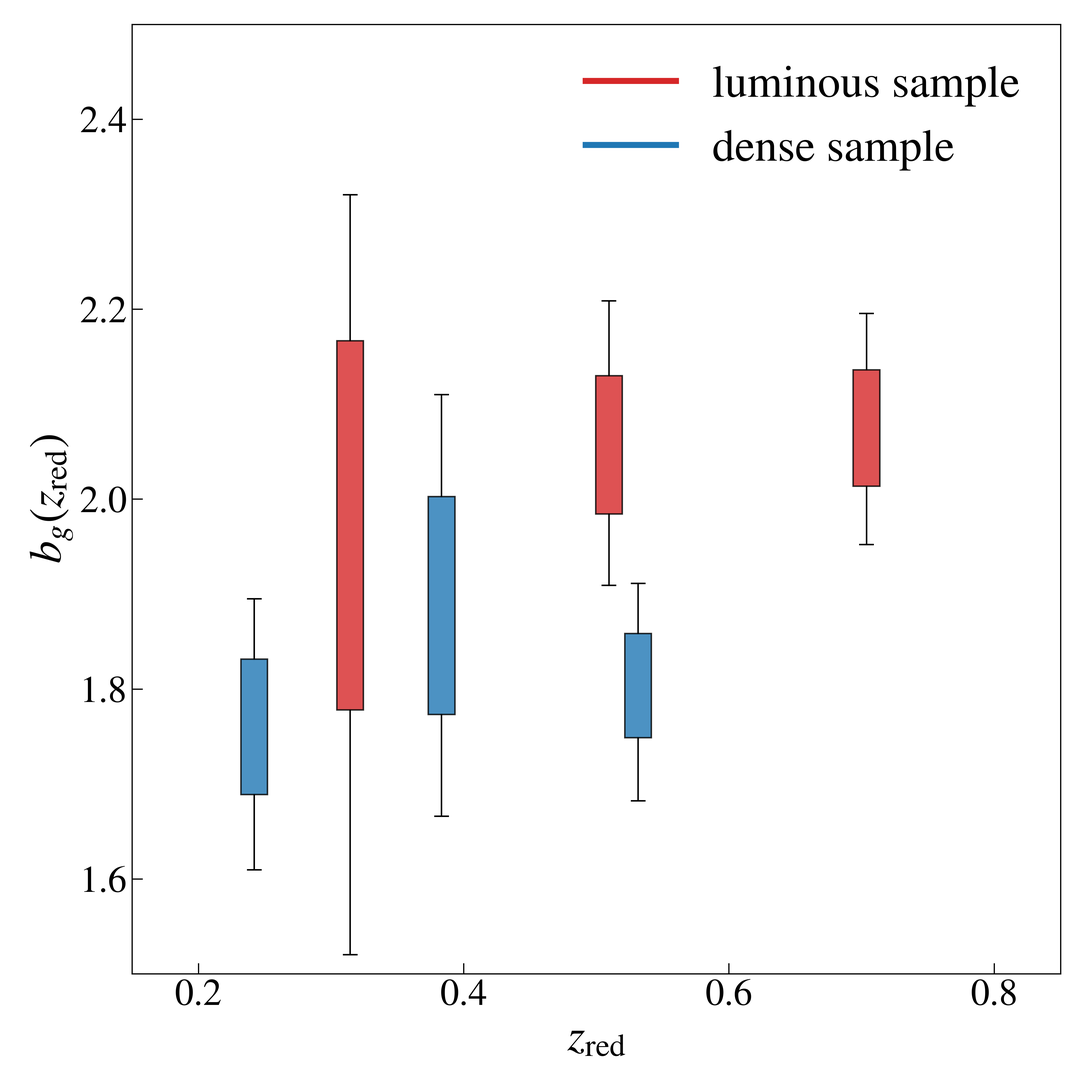
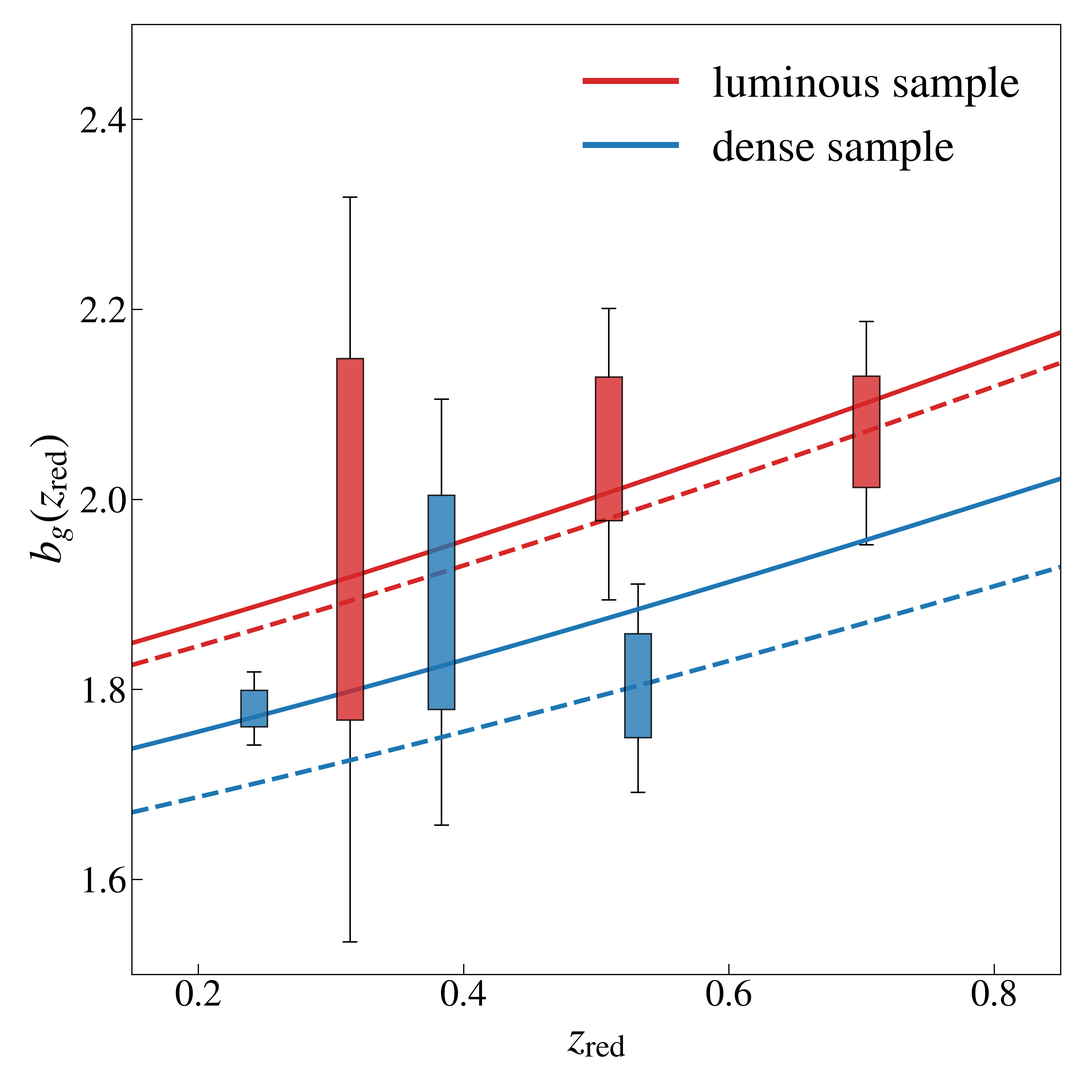
passive evolution

diff --git a/lrg_kids.tex b/lrg_kids.tex
@@ -77,6 +77,10 @@
 \newcommand{\mjv}{\textcolor{cyan}}
 \newcommand{\edit}{\textcolor{red}}
 \newcommand{\Referee}{\textcolor{red}}
+
+\newcommand{\mb}{\textcolor{brown}}
+
+
 %%%%%%%%%%%%%%%%%%%%%%%%%%%%%%%%%%%%%%%%%%%%%%%%%%
 
 \newcommand{\be}{\begin{equation}}
@@ -138,7 +142,10 @@ Mohammadjavad Vakili\inst{1}\thanks{\emph{E-mail:} vakili@strw.leidenuniv.nl} et
 %\maketitle
 
 % Abstract of the paper
-\abstract{We present a sample of luminous red-sequence galaxies to study the large-scale structure in the fourth data release of the Kilo Degree Survey. The selected galaxies are defined by a red-sequence template, a data-driven model of the color-magnitude relation conditioned on redshift. In this work, the red-sequence template is built using the broad-band optical+near infrared photometry of KiDS-VIKIING and the overlapping spectroscopic data sets. The selection process involves estimating the red-sequence redshifts, assessment of the purity of the sample, and estimating the redshift distributions. Then we mitigate the impact of survey properties on the observed number density of galaxies by assigning photometric weights to the galaxies. We measure the angular two-point correlation function of these galaxies in four redshift bins. After blinding the inverse covariance matrices of the correlation functions, we constrain the large-scale bias of our red-sequence sample. We find consistent linear biases with each luminosity-threshold sample. We finally compare our findings with the expectations of the passive evolution model.}
+\abstract{We present a sample of luminous red-sequence galaxies to study the large-scale structure in the fourth data release of the Kilo Degree Survey. The selected galaxies are defined by a red-sequence template, a data-driven model of the color-magnitude relation conditioned on redshift. In this work, the red-sequence template is built using the broad-band optical+near infrared photometry of KiDS-VIKING and the overlapping spectroscopic data sets \mb{[maybe say which ones?]}. The selection process involves estimating the red-sequence redshifts, assessment of the purity of the sample, and estimating the \mb{true} redshift distributions. %Then
+\mb{After performing the selection,} we mitigate the impact of survey properties on the observed number density of galaxies by assigning photometric weights to the galaxies. We measure the angular two-point correlation function of %these 
+\mb{the red} galaxies in four redshift bins. After blinding the inverse covariance matrices of the correlation functions, we constrain the large-scale bias of our red-sequence sample. We find consistent linear biases %with each 
+\mb{for two} luminosity-threshold sample\mb{s defined (`dense' and `luminous')}. We finally compare our findings with the expectations of the passive evolution model.}
 
 % Select between one and six entries from the list of approved keywords.
 % Don't make up new ones.
@@ -153,18 +160,18 @@ Mohammadjavad Vakili\inst{1}\thanks{\emph{E-mail:} vakili@strw.leidenuniv.nl} et
 
 \section{Introduction}
 
-The Kilo Degree Survey (KiDS) is an optical galaxy survey primarily designed to map the large-scale structure by studying the weak gravitational lensing of galaxies (\citealt{kuijken2015, hendrick2017, kuijken2019, hendrik2020}). This is done by measuring the distortion of the shapes of distant galaxies known as the cosmic shear. The correlation between the cosmic shear estimates across the sky is then compared to the predictions of simulations to test cosmological models. Cosmic shear analysis is the cornerstone of modern cosmological imaging surveys (\citealt{heymans2013,jee2016,hendrick2017,joudaki2017,troxel2017,joudaki2019, hikage2019}). 
+The Kilo Degree Survey (KiDS) is an optical galaxy survey primarily designed to map the large-scale structure by studying the weak gravitational lensing of galaxies (\citealt{kuijken2015, hendrick2017, kuijken2019, hendrik2020}) \mb{[Kuijken'19 probably not here. Also, maybe add Giblin'20 and Asgari'20 in prep?]}. This is done by measuring the distortion of the shapes of distant galaxies known as the cosmic shear. The correlation between the cosmic shear estimates across the sky is then compared to the predictions of simulations\mb{[rather: theoretical predictions?]} to test cosmological models. Cosmic shear analysis is the cornerstone of modern cosmological imaging surveys (\citealt{heymans2013,jee2016,hendrick2017,joudaki2017,troxel2017,joudaki2019, hikage2019}). 
 
-However, the full constraining potential of weak lensing studies can only be realized through the joint analysis of the cosmic shear of background galaxies and the positions of foreground galaxies with robust distance estimates. This involves measuring the correlation between the cosmic shear estimates of the background galaxies, the correlation between the positions of foreground galaxies as well as the cross-correlation between the cosmic shear of background galaxies and the positions of foreground galaxies (\citealt{cacciato2013, cosmolike, des_y1_cosmology, elvin2017, edo2018, prat2017}). 
+However, the full constraining potential of weak lensing studies can only be realized through the joint analysis of the cosmic shear of background galaxies and the positions of foreground galaxies with robust distance estimates. This involves measuring the correlation between the cosmic shear estimates of the background galaxies, the correlation between the positions of foreground galaxies as well as the cross-correlation between the cosmic shear of background galaxies and the positions of foreground galaxies\mb{, known as `galaxy-galaxy lensing'} (\citealt{cacciato2013, cosmolike, des_y1_cosmology, elvin2017, edo2018, prat2017}). 
 The advantages of such combined analyses are two-fold: obtaining tighter constraints on cosmological parameters and the extensions to the standard model of cosmology, and offering a venue for mitigation of a range of observational and theoretical systematics such as photometric redshift uncertainties and intrinsic alignments (\citealt{edo2016, joudaki2018, sam2019}). 
 
 In this work, we focus on selecting a sample of galaxies with robust redshift estimates as well as measuring their angular two-point correlation function in slices of redshift. Following the work of \citet{vakili2019} we construct a sample of red-sequence galaxies by leveraging the fact that the distribution of these galaxies in colour space follows a multivariate Gaussian distribution. The mean of this distribution is a linear function of magnitude. Furthermore, the coefficients of this linear relation as well as the covariance of the Gaussian distribution are determined by the redshift \citep[e.g.][]{bower1992,ellis1997,gladders1998,stanford1998}. 
 
-We can then leverage this empirical distribution to select red-sequence galaxies with the broad-band photometry of the imaging surveys (\citealt{gladders_yee2000,hao2009,redmap_sdss,rozo2016,elvin2017,oguri2018,vakili2019}). In this work, we build this data-driven model with the multi-band photometry of the KiDS DR4 (\citealt{kuijken2019}) and its overlap with the following spectroscopic data sets: SDSS DR13 (\citealt{sdss_dr13}), GAMA (\citealt{driver2011}), 2dFLenS (\citealt{blake2016}), and the GAMA reanalysis of the redshifts in COSMOS region (hereafter G10-COSMOS \citealt{davis2015}). 
+We can then leverage this empirical distribution to select red-sequence galaxies with the broad-band photometry of imaging surveys (\citealt{gladders_yee2000,hao2009,redmap_sdss,rozo2016,elvin2017,oguri2018,vakili2019}). In this work, we build this data-driven model with the multi-band photometry of the KiDS \mb{Data Release 4 (DR4,} \citealt{kuijken2019}) and its overlap with the following spectroscopic data sets: SDSS DR13 (\citealt{sdss_dr13}), GAMA (\citealt{driver2011}), 2dFLenS (\citealt{blake2016}), and the GAMA reanalysis of the redshifts in the COSMOS region (hereafter G10-COSMOS, \citealt{davis2015}). 
 
 %A major modification with respect to the red-sequence model of \citet{vakili2019} is the addition of the VIKING $Z$ filter to the KiDS OmegaCAM $ugri$ optical filters.  
 
-Following the $\textsc{redMagiC}$ prescription (\citealt{rozo2016}), we impose a set of luminosity cuts and constant comoving densities, and we construct two samples of red-sequence galaxies with nearly constant comoving density suitable for galaxy clustering and galaxy-galaxy lensing studies. We call these the dense (high density, low brightness) and the luminous (low density, high brightness) samples. The main differences between the red-sequence selection in this work and the previous work of \citet{vakili2019} are: the inclusion of the VIKING $Z$-band magnitudes in the red-sequence template, and the inclusion of the G10-COSMOS in spectroscopic calibration of the model. %We also use the VIKING $K_{\rm s}$ band to assess the purity of the sample selected based on the red-sequence template.  
+Following the $\textsc{redMagiC}$ prescription (\citealt{rozo2016}), we impose a set of luminosity cuts and constant comoving densities, and we construct two samples of red-sequence galaxies with nearly constant comoving density suitable for galaxy clustering and galaxy-galaxy lensing studies. We call these the dense (high density, low brightness) and the luminous (low density, high brightness) samples. The main differences between the red-sequence selection in this work and the previous work of \citet{vakili2019} are: the inclusion of the VIKING $Z$-band magnitudes in the red-sequence template, and the inclusion of the G10-COSMOS in spectroscopic calibration of the model. \mb{[say maybe how these help? %We also use the VIKING $K_{\rm s}$ band to assess the purity of the sample selected based on the red-sequence template.  
 
 Furthermore, we utilize the VIKING $K_{\rm s}$-band magnitudes to investigate the purity of the selected objects within each luminosity threshold sample. We then remove the outliers to maximize the purity of the catalog. Given the purity of the samples and the variable depth of the survey, we choose the redshift reaches of the luminosity threshold samples. The redshift reach of each sample is chosen such that the sample remains pure while nearly volume-limited (constant comoving density) below that redshift. Afterwards, we divide the galaxy sample into four redshift bins between 0.15 and 0.8, with the first three redshift bins comprising the galaxies in the dense sample and the last bin consisting of the galaxies in the luminous sample. 
 
@@ -394,7 +401,7 @@ Evidently, the estimated purity of galaxies in the dense sample drops significan
 
 \begin{table*}
 	\centering
-	\caption{{\bf Photo-z bias divided into four redshift bins and four spec-z data} In each redshift bin, we compare the photo-z biases, mean and standard deviation, with respect to the four spectroscopic surveys. The number of spectroscopic redshifts are shown in parenthesis.}
+	\caption{{\bf Photo-z bias divided into four redshift bins and four spec-z data} In each redshift bin, we compare the photo-z biases, summarized with mean and standard deviation, with respect to the four spectroscopic surveys. The number of spectroscopic redshifts available in each redshift bin and spectroscopic data set is shown in parenthesis.}
 	\label{tab:bias}
 	\begin{tabularx}{0.75\textwidth}{lcccr} % four columns, alignment for each
 		\hline
@@ -515,7 +522,12 @@ bias the cosmological inferences with these galaxy samples (\citealt{ross2012clu
 \end{figure*}
 
 
-We consider a range of photometric systematics with on-sky variations that can impact the variations of galaxy number densities. In total we consider 13 survey properties that we further pixelate using $\healpix$ (\citealt{healpix}). We produce the $\healpix$ map of these properties with $n_{\rm side} = 256$. Moreover, we consider the Galactic extinction in the $r$-band, and the star number density in the survey footprint. In what follows, we list the set of systematic properties considered in our investigation:
+We consider a range of photometric systematics with on-sky variations that can impact the variations of galaxy number densities. In total we consider 13 survey properties that we further pixelate using $\healpix$ (\citealt{healpix}). We produce the $\healpix$ map of these properties with $n_{\rm side} = 256$. Moreover, we consider the Galactic extinction in the $r$-band, and the star number density in the survey footprint. 
+
+It is important to note that the detection band in the KiDS photometry pipeline is the $r$-band. Therefore, most of the systamtic parameters considered in our analysis are extracted from the $r$-band imaging data. Since we make use of the galaxy GAaP magnitudes and magnitude errors in our red-sequence pipeline, we also include the GAaP limiting magnitudes in our list of imaging systematics.  
+ 
+
+In what follows, we list the set of systematic properties considered in our investigation:
 
 \begin{itemize}
 
@@ -538,8 +550,6 @@ We consider a range of photometric systematics with on-sky variations that can i
   It is worth noting that a number of parameters in the KiDS DR4 catalog are dedicated to star-galaxy separation. These include the $\mathtt{CLASS\_STAR}$
   parameter which is an output of the source extractor software, the $\mathtt{SG2DPHOT}$ parameter which is an internal KiDS star-galaxy classifier \citep[e.g.][]{kids_dr3, radovich2017}, and lastly the $\mathtt{SG\_FLAG}$ parameter which is derived based on an estimate of the size-peakiness relation of objects. Note that we have already excluded objects in our sample that are classified as high confidence stars according to the parameters $\mathtt{SG2DPHOT}$ and $\mathtt{SG\_FLAG}$. However, in order to reduce any impact of possible imperfections in the star-galaxy classification on our systematic tests, we decide to use a systematic map constructed from an external GAIA DR2 catalog with a complete sample of stars. The $\mathtt{HEALPIX}$ map of star number densities is shown in Figure~\ref{fig:scatter_stardens}.
  
-  It is important to note that the detection band in the KiDS photometry pipeline is the $r$-band. Therefore, most of the systamtic parameters considered in our analysis are extracted from the $r$-band imaging data. Since we make use of the galaxy GAaP magnitudes and magnitude errors in our red-sequence pipeline, we also include the GAaP limiting magnitudes in our list of imaging systematics.  
- 
 \end{itemize}
 
 %\begin{figure*}
@@ -557,7 +567,7 @@ We consider a range of photometric systematics with on-sky variations that can i
 \begin{figure}
     %\centering
     \includegraphics[width = \columnwidth]{figures_tmp/cross_45.png}
-    \caption{Cross correlation of the galaxy number density in the fourth redshift bin with the first four principal components of the systematic variables with the systematic weights (shown in blue) and without the systematic weights (shown in red). The width of the bands show the 68\% in the jacknife uncertainties. The estimated cross-correlations are consistent with zero.}
+    \caption{Cross correlation of the galaxy number density in the third redshift bin with the systematic variable most correlated with $n_g$. The cross-correlation is computed with (without) the systematic weights is shown in blue (red). The width of the bands show the 68\% in the jacknife uncertainties. The estimated cross-correlations are consistent with zero.}
     \label{fig:cross-correlation}
 \end{figure}
 
@@ -579,7 +589,7 @@ $\{\mathbf{s}_{i} \in \mathbb{R}^{15}\}_{i=1}^{N_{\rm pix}}$ so that the mean an
 \begin{equation}
     \mathbf{S}_{\perp} = [S_{\perp}^{(1)}, S_{\perp}^{(2)}, ..., S_{\perp}^{(15)}],
 \end{equation}
-where $S_{\perp}^{(j)}$ is the $j$-th systematic vector in the new basis. For the third redshift bin $z_{\rm red} \in [0.45, 0.6]$, the variation of the observed number density versus the systematic parameters $\mathbf{S}_{\perp}$ is shown by the red bands in Figure~\ref{fig:sys_ng_correlation}, where we only show the four most significant variations quantified by the reduced chi-squared $\chi^2_{\rm red}$. A higher $\chi^{2}_{\rm red}$ value implies a more considerable systematic trend in which the observed galaxy over-density deviates from unity.  
+where $S_{\perp}^{(j)}$ is the $j$-th systematic vector in the new basis. For the third redshift bin $z_{\rm red} \in [0.45, 0.6]$\footnote{For brevity we only show the systematic-density trends in the third bin. The systematic trends in the rest of the redshift bins and the corrections are similar.}, the variation of the observed number density versus the systematic parameters $\mathbf{S}_{\perp}$ is shown by the red bands in Figure~\ref{fig:sys_ng_correlation}, where we only show the four most significant variations quantified by the reduced chi-squared $\chi^2_{\rm red}$. A higher $\chi^{2}_{\rm red}$ value implies a more considerable systematic trend in which the observed galaxy over-density deviates from unity.  
 
 %Note that the observed galaxy number density-systematic trends are shown with the orange errorbars. In each row, only the trends with considerable deviation from unity are shown. We note that the variations in the observed number density as a result of survey inhomogeneity changes depends on the galaxy sample under study,  with galaxies in different tomographic bins showing different sensitivities.
 
@@ -589,11 +599,11 @@ Following the work of \citet{bautista2018sdss}, we introduce a set of photometri
 
 Additionally, we consider two modifications. First, we introduce a set of second-order polynomial features from the original feature space $\{\mathbf{s}\}$. These polynomial features are then mapped to the observed galaxy overdensity via a linear relation. Furthermore, we introduce an $L_{2}$ regularization to this regression problem which is implemented by adding a regularization term $\lambda \sum_{k} W_k^2$ to the least square cost function. The added advantage of this regularization term is that it tends to keep the $\mathbf{W}$ parameters small thereby avoiding overfitting.
 
-In practice, we choose the regularization hyper-parameter $\lambda$ by a $k$-fold cross-validation search in which we explore a wide range of $\lambda$ values from $10^{-4}$ to $10^{5}$. We note that in all the redshift bins, our cross-validation optimization procedure prefers a heavy regularization in which a very large value of $\lambda \in [10^3-10^4]$ is favored. The advantage of this approach to that of \citet{ross2017clustering} is that it does not assume that there is no correlation between the systematic parameters.
+In practice, we choose the regularization hyper-parameter $\lambda$ by a $k$-fold cross-validation search in which we explore a wide range of $\lambda$ values from $10^{-4}$ to $10^{5}$. We note that in all the redshift bins, our cross-validation optimization procedure prefers a heavy regularization in which a very large value of $\lambda \in [10^3-10^5]$ is favored. The advantage of this approach to that of \citet{ross2017clustering} is that it does not assume that there is no correlation between the systematic parameters.
 
 The prediction of this model, once applied to the pixelated systematic maps provides a set of photometric weights that removes the systematically induced variations in the galaxy number density. The photometric weights are obtained by taking the inverse of the prediction of the model. Figure~\ref{fig:sys_ng_correlation} demonstrates how the photometric weights derived from our framework can help reduce the systematic trends seen in the observed galaxy number densities. In Figure~\ref{fig:sys_ng_correlation}, the density-correlations are displayed after taking into account the photometric weights (shown in blue) and without the photometric weights (shown in red). We note that the reduced $\chi^{2}$ is reduced significantly once the photometric weights are taken into consideration. 
 
-Moreover, we investigate the two-point cross-correlations of the galaxy number density and the orthogonal systematic parameters $\{\mathbf{S}_{\perp, i}\}_{i=1}^{N_{pix}}$ as a function of angular separation. In Figure~\ref{fig:cross-correlation}, the cross-correlations between the galaxy number density in the third redshift bin ($z_{\rm red} \in [0.45, 0.6]$) and the first four orthognal systematic vectors $S_{\perp}^{(1)}, S_{\perp}^{(2)}, S_{\perp}^{(3)}, S_{\perp}^{(4)}$ are shown in the case where we include the systematic weights (shown in blue) and when we do not include the systematic weights (shown in red). The width of the bands represent the 68\% uncertainties obtained from the jackknife method. In both cases, we note that the cross-correlations are consistent with zero with slight improvements when the photometric weights are accounted for.
+Moreover, we investigate the two-point cross-correlations of the galaxy number density and the orthogonal systematic parameters $\{\mathbf{S}_{\perp, i}\}_{i=1}^{N_{pix}}$ as a function of angular separation. In Figure~\ref{fig:cross-correlation}, the cross-correlations between the galaxy number density in the third redshift bin ($z_{\rm red} \in [0.45, 0.6]$) and  the systematic vector $S_{\perp}^{(9)}$ with the largest correlation with the observed density (see Figure~\ref{fig:sys_ng_correlation}) is shown in two cases: the case where we include the systematic weights (shown in blue) and where we do not include the systematic weights (shown in red). The width of the bands represent the 68\% uncertainties obtained from the jackknife method. In both cases, we note that the cross-correlations are consistent with zero with slight improvements when the photometric weights are accounted for.
 
 Alternatively, one can use self organizing maps (SOM, \citealt{kohonen1997}) for learning the systematic galaxy density modes due the variable survey properties and then generating a set of organized randoms mimicking the galaxy depletion pattern across the survey footprint. We have also tested this method and we found that this method works best in correcting the systematic depletion in a galaxy sample with a higher number density than the galaxy sample in our study. 
 
@@ -623,7 +633,7 @@ We have not explored the effect of various observing conditions on the distribut
 
 \subsection{Theory}
 
-Assuming a local deterministic linear galaxy bias, the galaxy overdensity $\delta_g$ is related to the matter overdensity $\delta_m$ through a linear relation: $\delta_g = b_g \delta_m$, where the parameter $b_g$ is the linear bias parameter. Such assumption is expected to hold on sufficiently large scales \citep[e.g.][]{Kravtsov1999}, whereas on small scales, the nonlinear structure formation is best described by the more sophisticated halo model \citep[e.g. ][]{hand2017,vakili_hahn}.
+Assuming a local deterministic linear galaxy bias, the galaxy overdensity $\delta_g$ is related to the matter overdensity $\delta_m$ through a linear relation: $\delta_g = b_g \delta_m$, where the parameter $b_g$ is the linear bias parameter. Such assumption is expected to hold on sufficiently large scales \citep[e.g.][]{Kravtsov1999, marian2015}, whereas on small scales, the nonlinear structure formation is best described by the more sophisticated halo model \citep[e.g. ][]{berlind2002,cooray2002,zehavi2011,hand2017,vakili_hahn}.
 
 Assuming a nonlinear matter power-spectrum $P_{\delta}(k,z)$, and a galaxy population described by linear bias of $b_g$, and redshift distribution of $n_g(z)$, one can predict the angular two-point correlation function $w_{g}(\theta)$. Under the Limber, flat-sky approximations (\citealt{limber1961, loverde2008, kilbinger2017, kitching2017}), the angular clustering $w_g(\theta)$ is given by:
 
@@ -637,7 +647,7 @@ where $\chi_{\rm c}$ is the comoving distance, $P_{\rm NL}$ is the analytical no
 We calculate the theoretical prediction (\ref{eq:clustering_theory}) for all four tomographic bins in our galaxy sample with their corresponding linear bias parameters $\{b^{(i)}_{g}\}_{i=1}^{4}$ and redshift distributions $\{n^{(i)}_{g}(z)\}_{i=1}^{4}$.
 
 Assuming a fixed cosmology, we aim to estimate the linear bias parameters $\{b^{(i)}_{g}\}_{i=1}^{4}$ by fitting the theoretical prediction (\ref{eq:clustering_theory}) to the angular clustering measurements provided in Section~\ref{sec:measurement}. It is worth noting that one major source of systematic in this theoretical prediction is the uncertainty on the mean of the redshift distributions $\{n_{g}^{(i)}(z)\}_{i=1}^{4}$. In order to mitigate the impact of such systematic, we assume that the estimated redshift distribution at each tomographic bin $n_{g}^{(i)}(z)$ is effectively given by shifting the underlying unbiased redshift distribution $n_{g, \rm true}^{(i)}(z - \delta z^{(i)})$, where the parameter $\delta z^{(i)}$ is the uncertainty on the mean of the redshift distribution of $i$-th redshift bin. In Section~\ref{sec:inference} we will 
-discuss how the the uncertainty over the mean of the redshift distribution can be estimated. When reporting the constraints on the galaxy bias parameters, we marginalize over the redshift uncertainties. 
+discuss how the uncertainty over the mean of the redshift distribution can be estimated. When reporting the constraints on the galaxy bias parameters, we marginalize over the redshift uncertainties. 
 
 \subsection{Clustering measurements}\label{sec:measurement}
 
@@ -774,15 +784,15 @@ Turning our attention to the dense sample, we find that the passive evolution mo
 \end{figure*}
 
 
-%\begin{figure}
-%\includegraphics[width=\columnwidth]{figures_tmp/joint_estimate_converged.png}
-%\caption{ Joint constraints on the linear galaxy bias and photo-z shift parameters shown for the dense sample (blue contours) and the luminous sample (red contour). } 
-%\label{fig:joint_estimate}
-%\end{figure}
+\begin{figure}
+\includegraphics[width=\columnwidth]{figures_tmp/joint_estimate.png}
+\caption{ Joint constraints on the linear galaxy bias and photo-z shift parameters shown for the redshift bins constructed with the dense sample (blue contours) and the last redshift bin which is constructed from the luminous sample (red contour).} 
+\label{fig:joint_estimate}
+\end{figure}
 
 \begin{figure}
 \includegraphics[width=\columnwidth]{figures_tmp/b_estimate_boxed.png}
-\caption{ Redshift-dependence of the estimated linear galaxy bias shown for the dense sample (blue) and the luminous sample (red). The boxes mark the 68\% and the 95\% confidence intervals over the marginalized distribution over bias parameters.} 
+\caption{ Redshift-dependence of the estimated linear galaxy bias shown for the dense sample (blue) and the luminous sample (red). The boxes mark the 68\% and the 95\% confidence intervals over the marginalized distribution over bias parameters. The solid (dashed) lines show the predictions of the passive evolution model of \citet{Fry1996} given the bias constraints in the three redshift bins (in the last redshift bin) for each galaxy sample.} 
 \label{fig:b_estimate}
 \end{figure}
 
